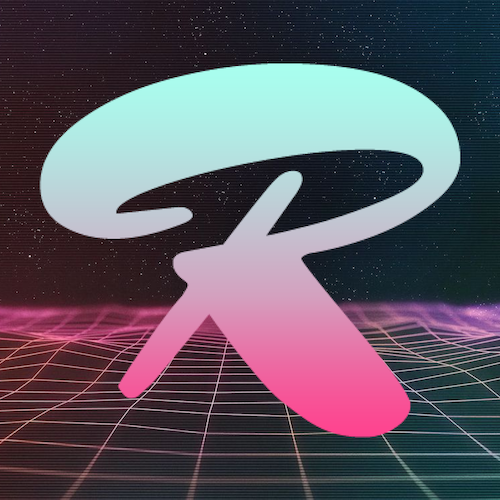
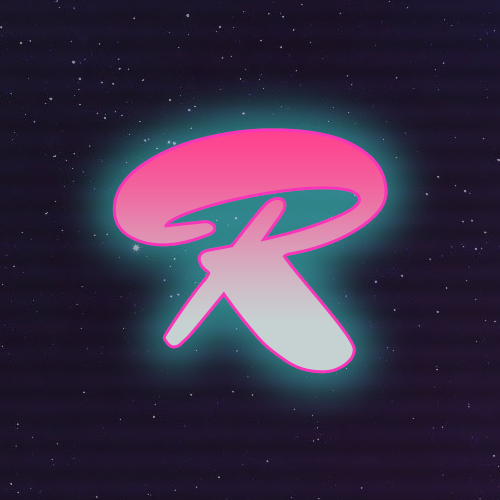
Background and border enhancements ✨

diff --git a/README.md b/README.md
@@ -1,20 +1,28 @@
 <br />
 <div align="center">
   <img
-    src="https://raw.githubusercontent.com/dhedgecock/radical-vscode/master/assets/Radical.png"
-    width="800"
+    src="https://danhedgecock.com/static/media/Radical.png"
     alt="VSCode Radical Theme"
   />
 </div>
 
-<div align="center">
-  <img
-    src="https://raw.githubusercontent.com/dhedgecock/radical-vscode/master/assets/red-hr.png"
-  />
-</div>
+<h2 align="center">
+  <em>A dark theme for radical hacking inspired by retro futuristic design.</em>
+</h2>
 
 <p align="center">
-<em>A dark theme for radical hacking inspired by retro futuristic design.</em>
+  <!-- marketplace version -->
+  <a href="https://marketplace.visualstudio.com/items?itemName=dhedgecock.radical-vscode">
+    <img alt="marketplace version" src="https://img.shields.io/vscode-marketplace/v/dhedgecock.radical-vscode.svg?maxAge=3600&style=for-the-badge&labelColor=1C1E26&color=a8ffef">
+  </a>
+  <!-- downloads -->
+  <a href="https://marketplace.visualstudio.com/items?itemName=dhedgecock.radical-vscode">
+    <img alt="downloads" src="https://img.shields.io/visual-studio-marketplace/d/dhedgecock.radical-vscode.svg?maxAge=3600&style=for-the-badge&labelColor=1C1E26&color=ff428e">
+  </a>
+  <!-- rating -->
+  <a href="https://marketplace.visualstudio.com/items?itemName=dhedgecock.radical-vscode">
+    <img alt="rating" src="https://img.shields.io/visual-studio-marketplace/stars/dhedgecock.radical-vscode.svg?maxAge=86400&style=for-the-badge&labelColor=1C1E26&color=864df8">
+  </a>
 </p>
 
 ## Theme features
@@ -30,7 +38,7 @@
 
 <div align="center">
   <img
-    src="https://raw.githubusercontent.com/dhedgecock/radical-vscode/master/assets/hero.png"
+    src="https://danhedgecock.com/static/media/main-screenshot.png"
   />
 </div>
 
